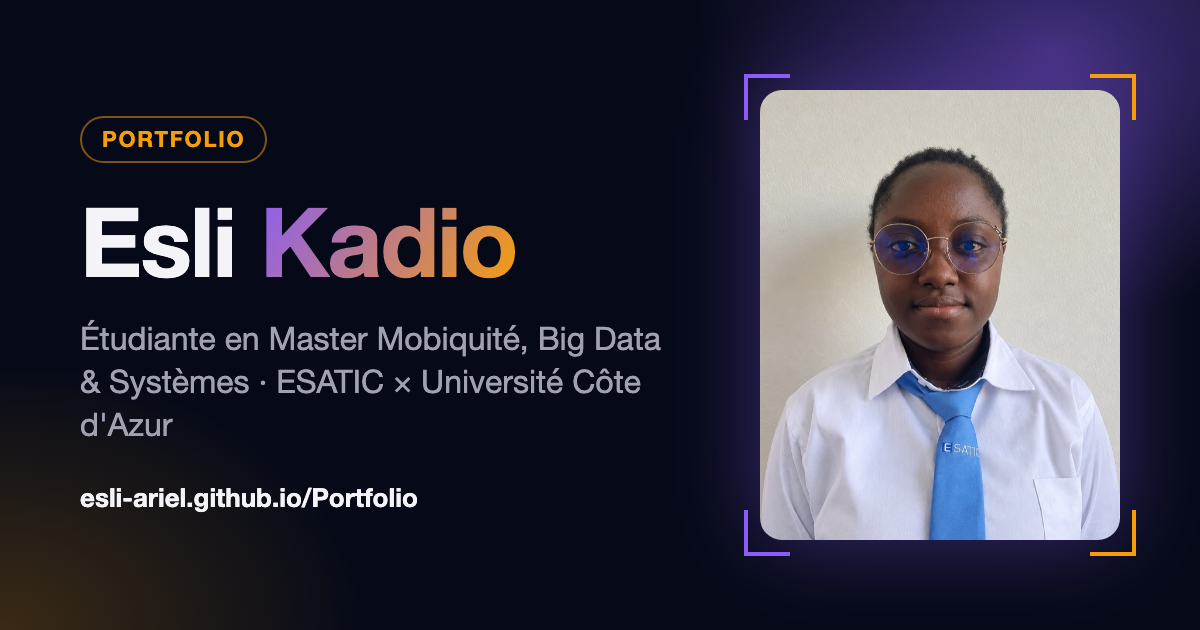
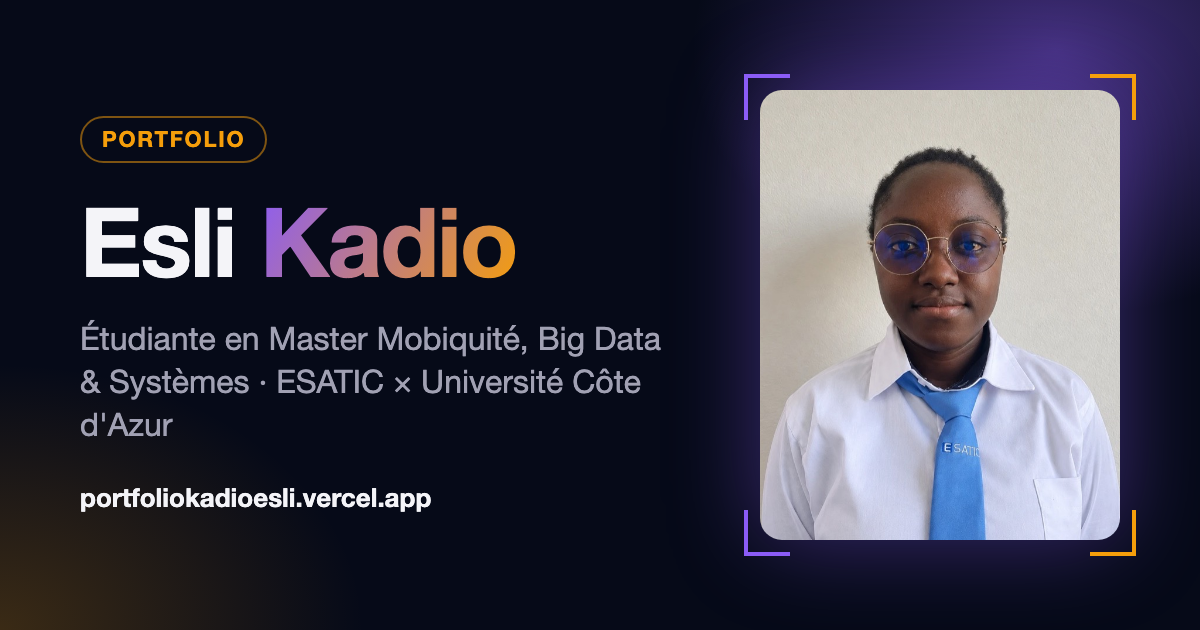
chore: adresse principale du site sur Vercel
- balises Open Graph et Twitter pointent vers portfoliokadioesli.vercel.app
- image d'aperçu régénérée avec la nouvelle adresse
- lien du site ajouté au README

Changed region(s): [[0.0617, 0.754, 0.37, 0.8143]]

diff --git a/index.html b/index.html
@@ -8,16 +8,16 @@
     <meta property="og:title" content="Esli Kadio — Master Mobiquité, Big Data & Systèmes">
     <meta property="og:description" content="Développement web, IA et projets de génie logiciel.">
     <meta property="og:type" content="website">
-    <meta property="og:url" content="https://esli-ariel.github.io/Portfolio/">
+    <meta property="og:url" content="https://portfoliokadioesli.vercel.app/">
     <meta property="og:locale" content="fr_FR">
-    <meta property="og:image" content="https://esli-ariel.github.io/Portfolio/img/og-image.png">
+    <meta property="og:image" content="https://portfoliokadioesli.vercel.app/img/og-image.png">
     <meta property="og:image:width" content="1200">
     <meta property="og:image:height" content="630">
     <meta property="og:image:alt" content="Esli Kadio, étudiante en Master Mobiquité, Big Data et Systèmes">
     <meta name="twitter:card" content="summary_large_image">
     <meta name="twitter:title" content="Esli Kadio — Master Mobiquité, Big Data &amp; Systèmes">
     <meta name="twitter:description" content="Développement web, IA et projets de génie logiciel.">
-    <meta name="twitter:image" content="https://esli-ariel.github.io/Portfolio/img/og-image.png">
+    <meta name="twitter:image" content="https://portfoliokadioesli.vercel.app/img/og-image.png">
     <meta name="theme-color" content="#060a18">
     <link rel="preconnect" href="https://fonts.googleapis.com">
     <link rel="preconnect" href="https://fonts.gstatic.com" crossorigin>

diff --git a/README.md b/README.md
@@ -1,5 +1,7 @@
 # Portfolio — Esli Kadio
 
+Site en ligne : <https://portfoliokadioesli.vercel.app>
+
 Site statique (HTML, CSS, JavaScript) : aucune installation n'est nécessaire.
 
 ## Lancer le site sur votre ordinateur
